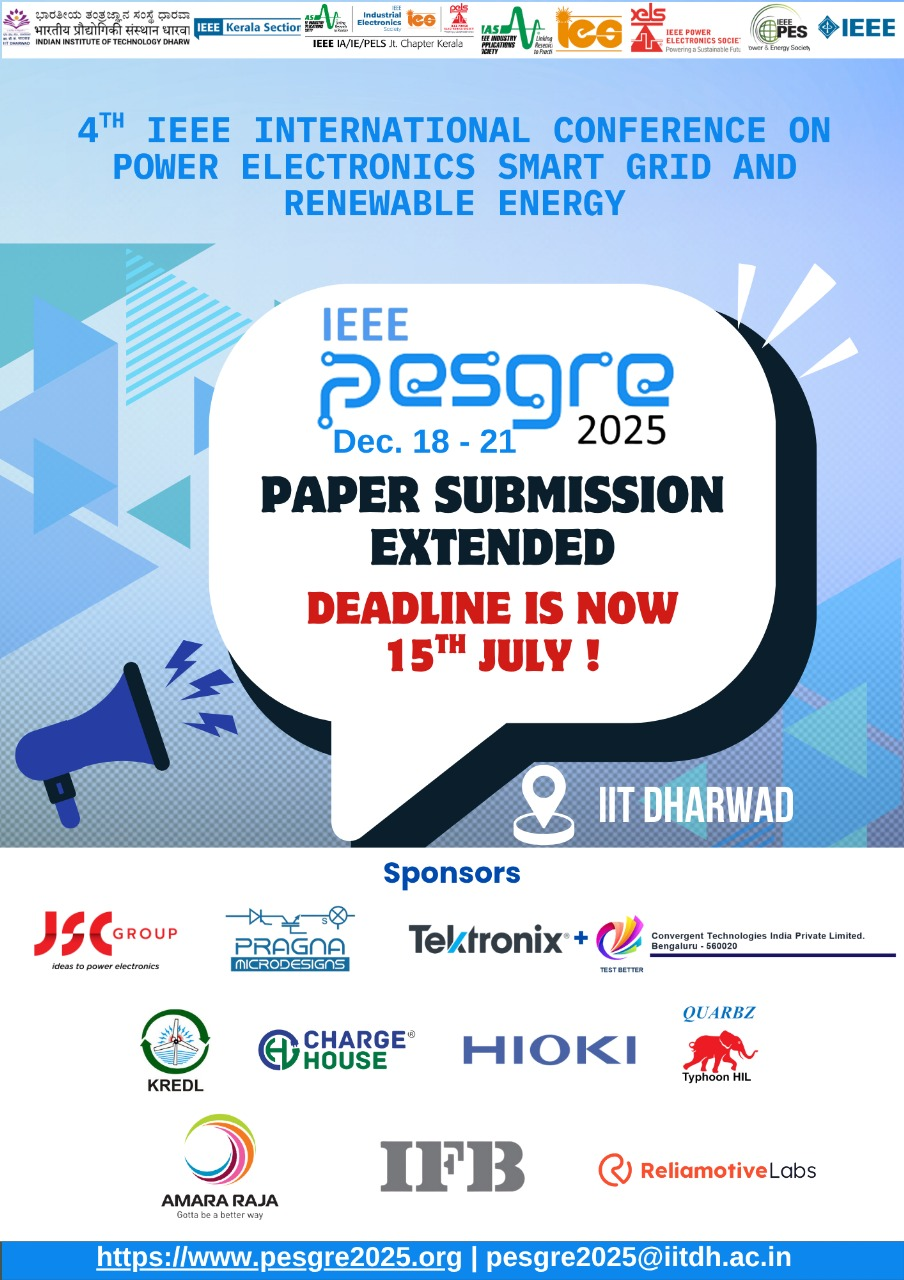
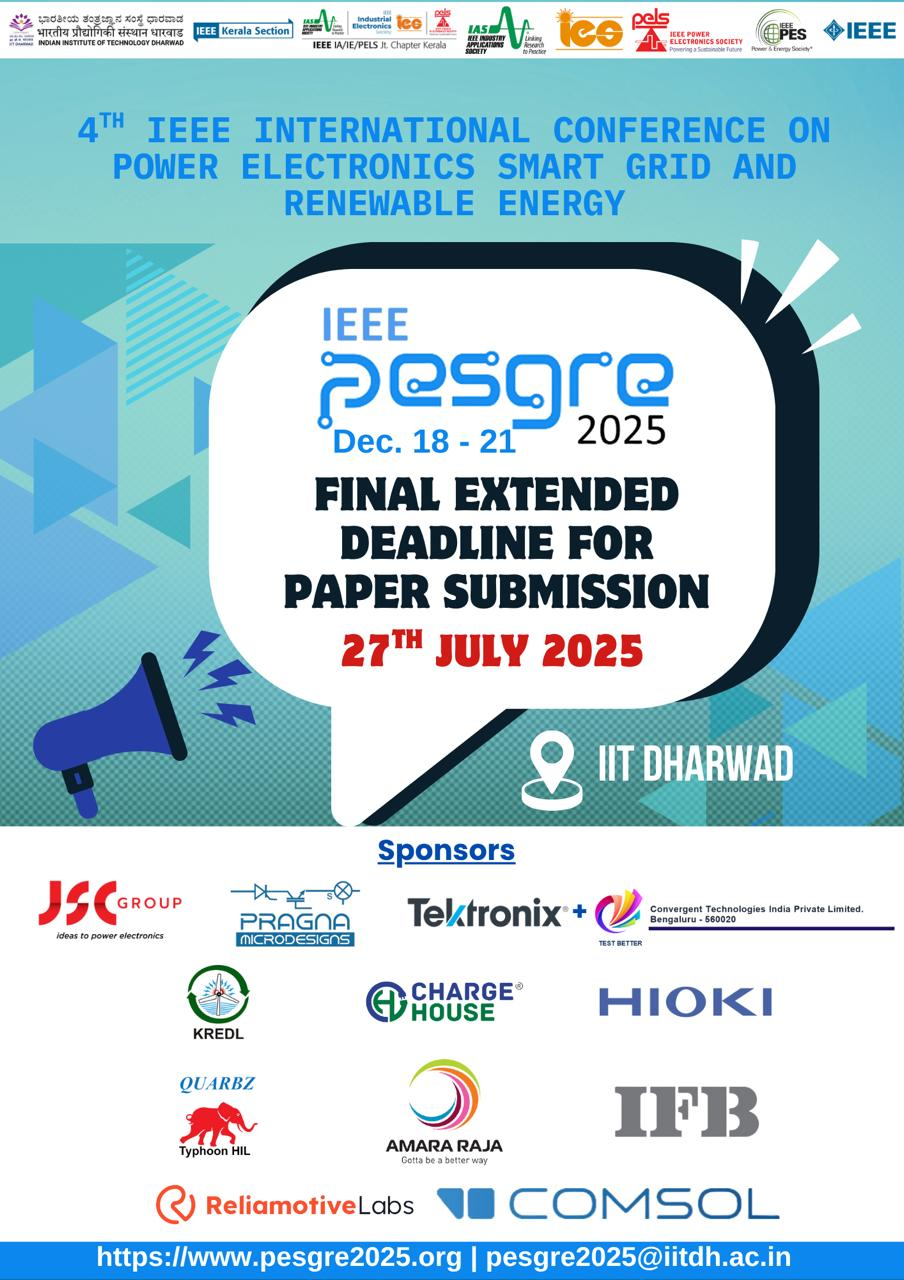
y

diff --git a/src/pages/Home.jsx b/src/pages/Home.jsx
@@ -49,7 +49,7 @@ const importantDates = [
   {title:"Call for Special Sessions",date: "2025-04-15",link:"/authors/call-for-special-session"},
   {title:"Deadline for Special Session Proposals",date: "2025-05-15", link:"/authors/call-for-special-session", secondary_link:"https://cmt3.research.microsoft.com/PESGRE2025"},
   {title:"Paper Submission Deadline",date: "2025-06-15", link:"/authors/submission", secondary_title:"Paper Submission Link", secondary_link:"https://cmt3.research.microsoft.com/PESGRE2025"},
-  {title:"Extended Paper Submission Deadline",date: "2025-07-15", link:"/authors/submission", secondary_title:"Paper Submission Link", secondary_link:"https://cmt3.research.microsoft.com/PESGRE2025"},
+  {title:"Final Extended Paper Submission Deadline",date: "2025-07-27", link:"/authors/submission", secondary_title:"Paper Submission Link", secondary_link:"https://cmt3.research.microsoft.com/PESGRE2025"},
   {title:"Notification of Paper Acceptance",date: "2025-08-15", link:""},
   {title:"Final Camera-ready Paper",date: "2025-09-15", link:""},
 ];

diff --git a/src/pages/CallForPapers.jsx b/src/pages/CallForPapers.jsx
@@ -170,7 +170,7 @@ function CallForPapers() {
                 <li>Authors presenting papers at the conference at the PESGRE 2025 conference are eligible to submit the revised versions as post-conference papers for further review and possible publication in the IEEE-IAS Transactions and Magazine.</li>
                 <li>Standard manuscript templates for conference proceedings in LaTex and Word are present at <a href="https://www.ieee.org/conferences/publishing/templates.html" className="text-blue-600 underline" target="_blank"
                   rel="noopener noreferrer">Standard IEEE Templates.</a> </li>
-                <li>The deadline for paper submission is <span className='text-red-600 font-bold'>30th June 2025 (Extended paper submission deadline)</span>.</li>
+                <li>The deadline for paper submission is <span className='text-red-600 font-bold'>27th July 2025 (Final Extended paper submission deadline)</span>.</li>
               </ul>
             </div>
 

diff --git a/src/pages/StudentsAndYPs.jsx b/src/pages/StudentsAndYPs.jsx
@@ -128,6 +128,12 @@ function StudentsAndYPs() {
 
           {/* Right Column */}
           <div className="w-full md:w-1/2 px-4">
+            <div className="mb-8">
+              <h2 className="text-[#168BEE] text-xl font-bold mb-3">
+                SYPA Application Link
+              </h2>
+              <p>Click <a href="https://docs.google.com/forms/d/e/1FAIpQLSfDJMHFyZyRJBJlc_TQ_bHJJ0zqHNpgsjz3c9iXiK2FgVeusg/viewform?usp=preview" className="text-blue-600 underline" target="_blank" rel="noopener noreferrer">here</a> to apply.</p>
+            </div>
             {/* How to Apply Section */}
             <div>
               <h2 className="text-xl font-bold text-[#168BEE] mb-4">

diff --git a/src/components/AnnouncementStrip.jsx b/src/components/AnnouncementStrip.jsx
@@ -7,7 +7,7 @@ const textArray = [
     link: "/",
   },
   {
-    text: "Paper Submission is OPEN, Deadline 15th July 2025 (Extended paper submission deadline)",
+    text: "Paper Submission is OPEN, Deadline 27th July 2025 (Final Extended paper submission deadline)",
     link: "https://cmt3.research.microsoft.com/PESGRE2025",
   },
   {
